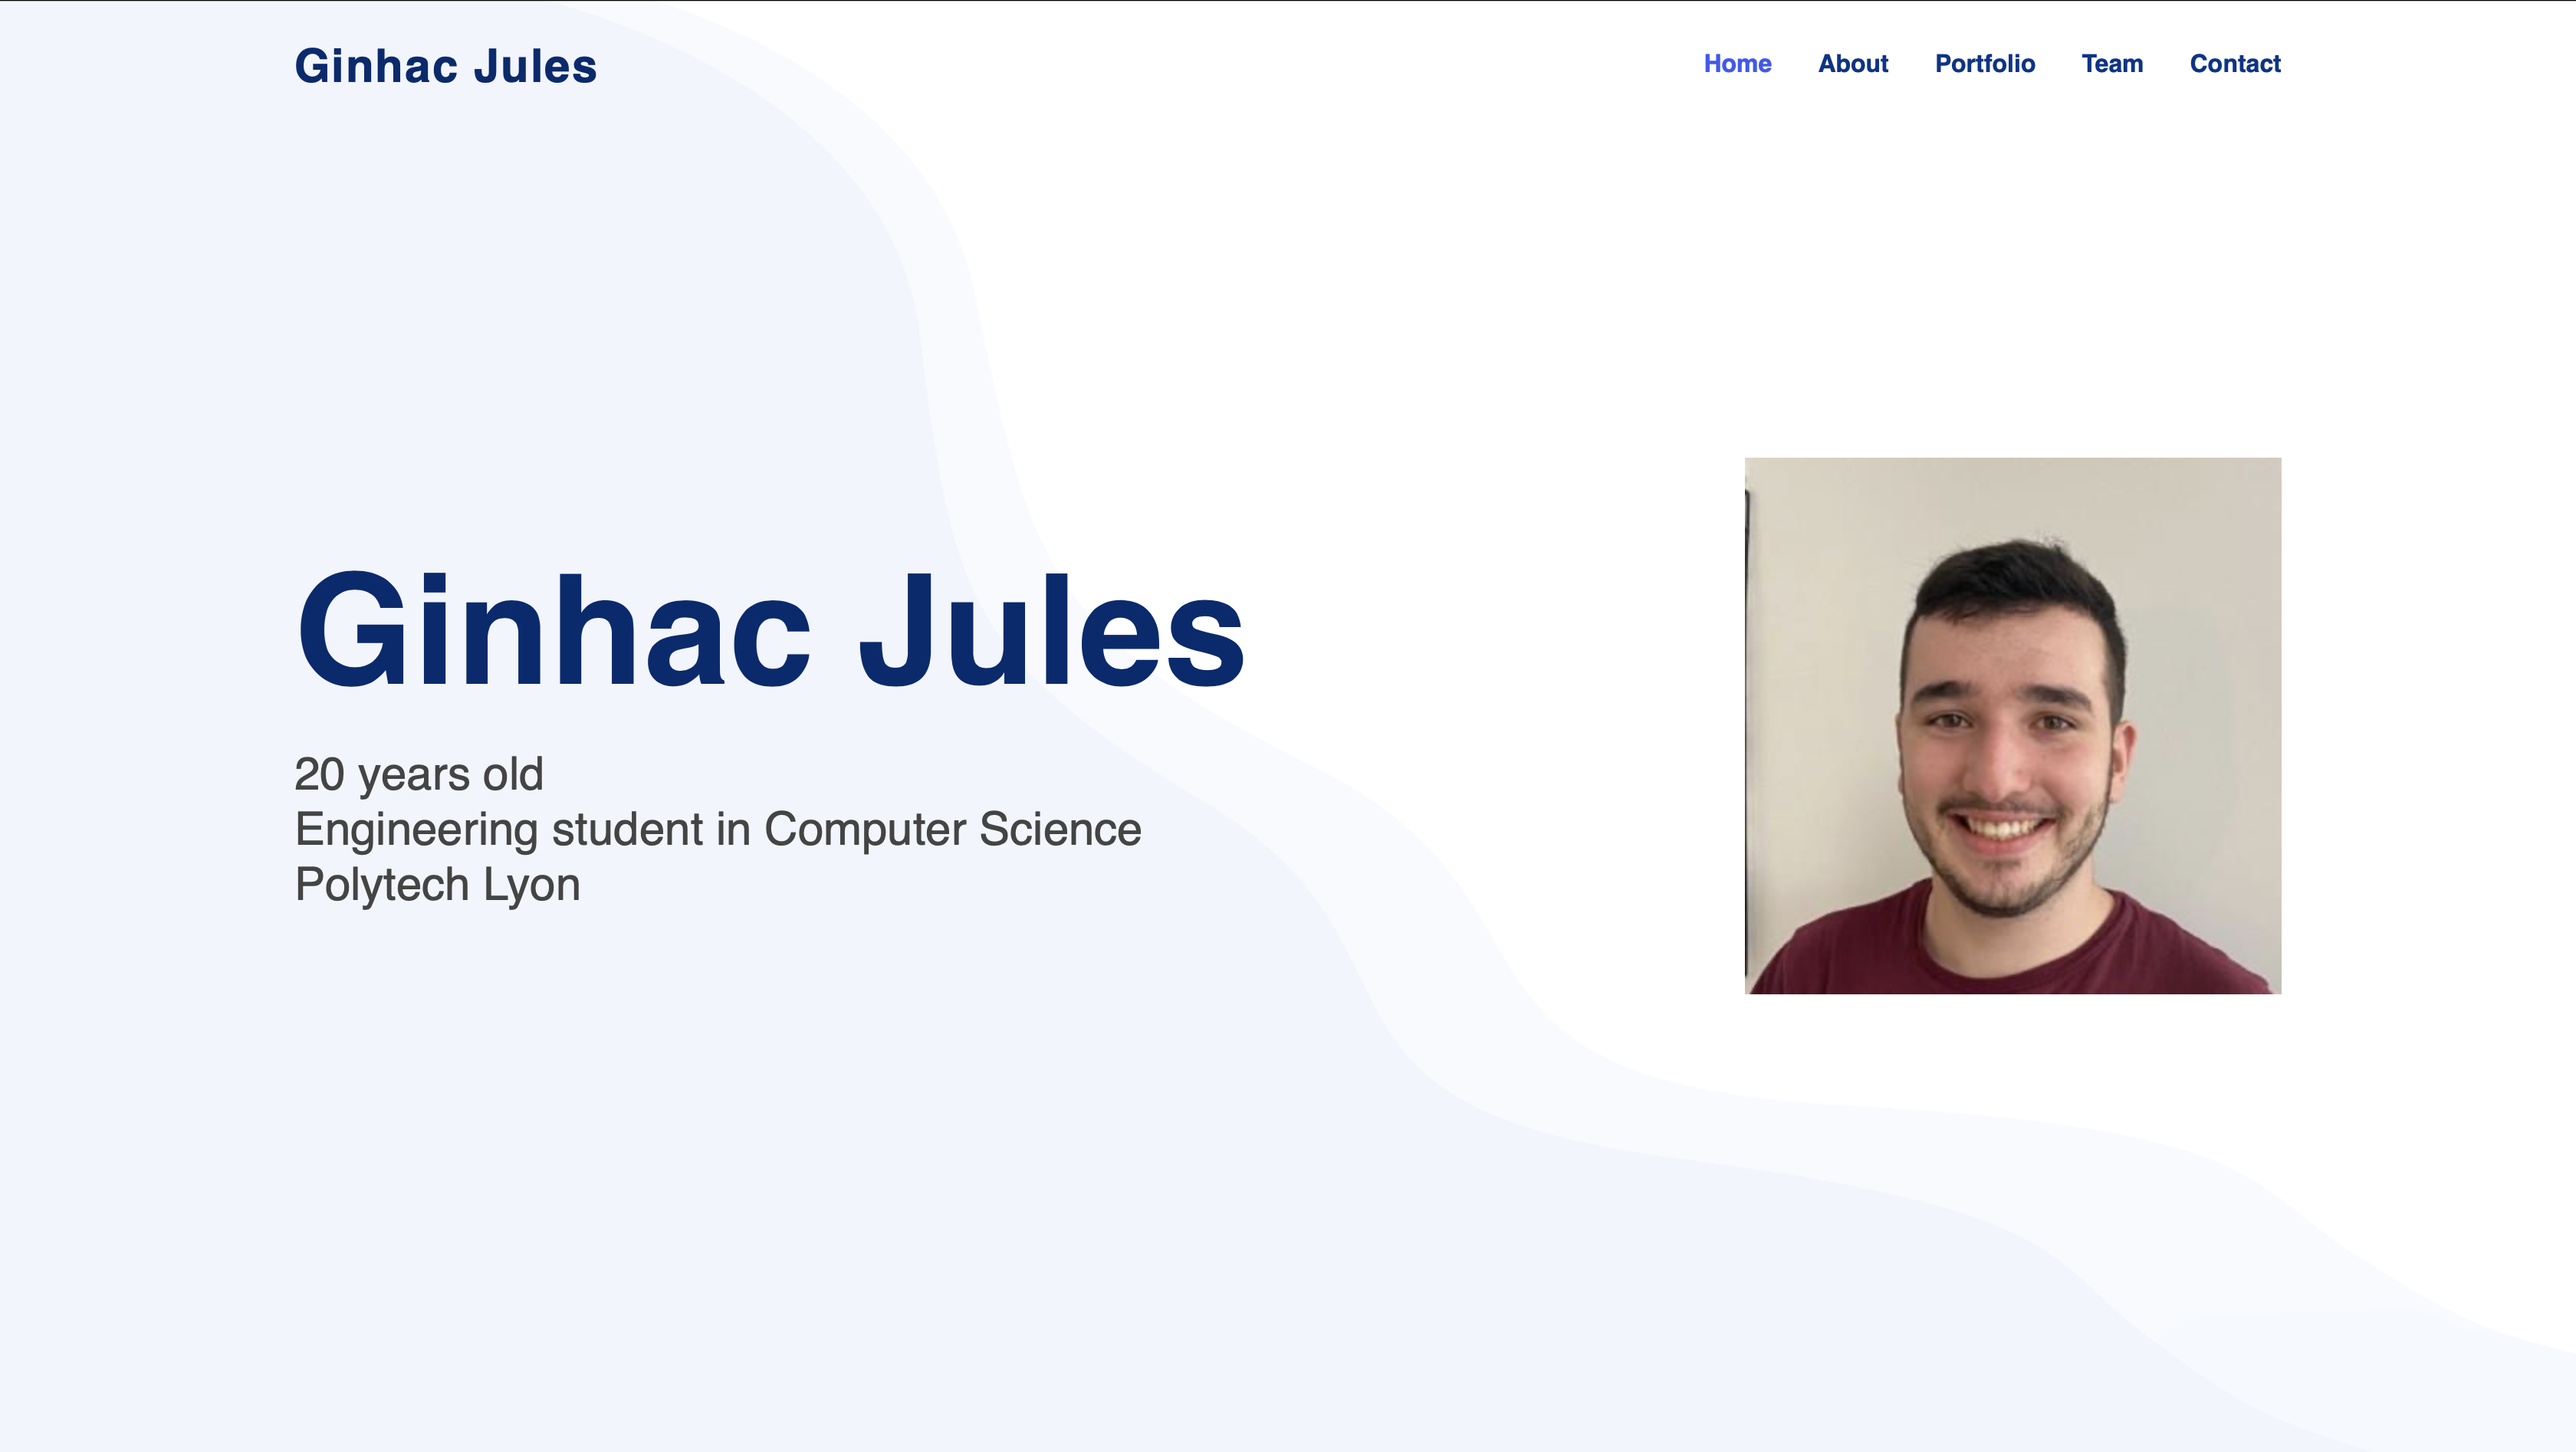
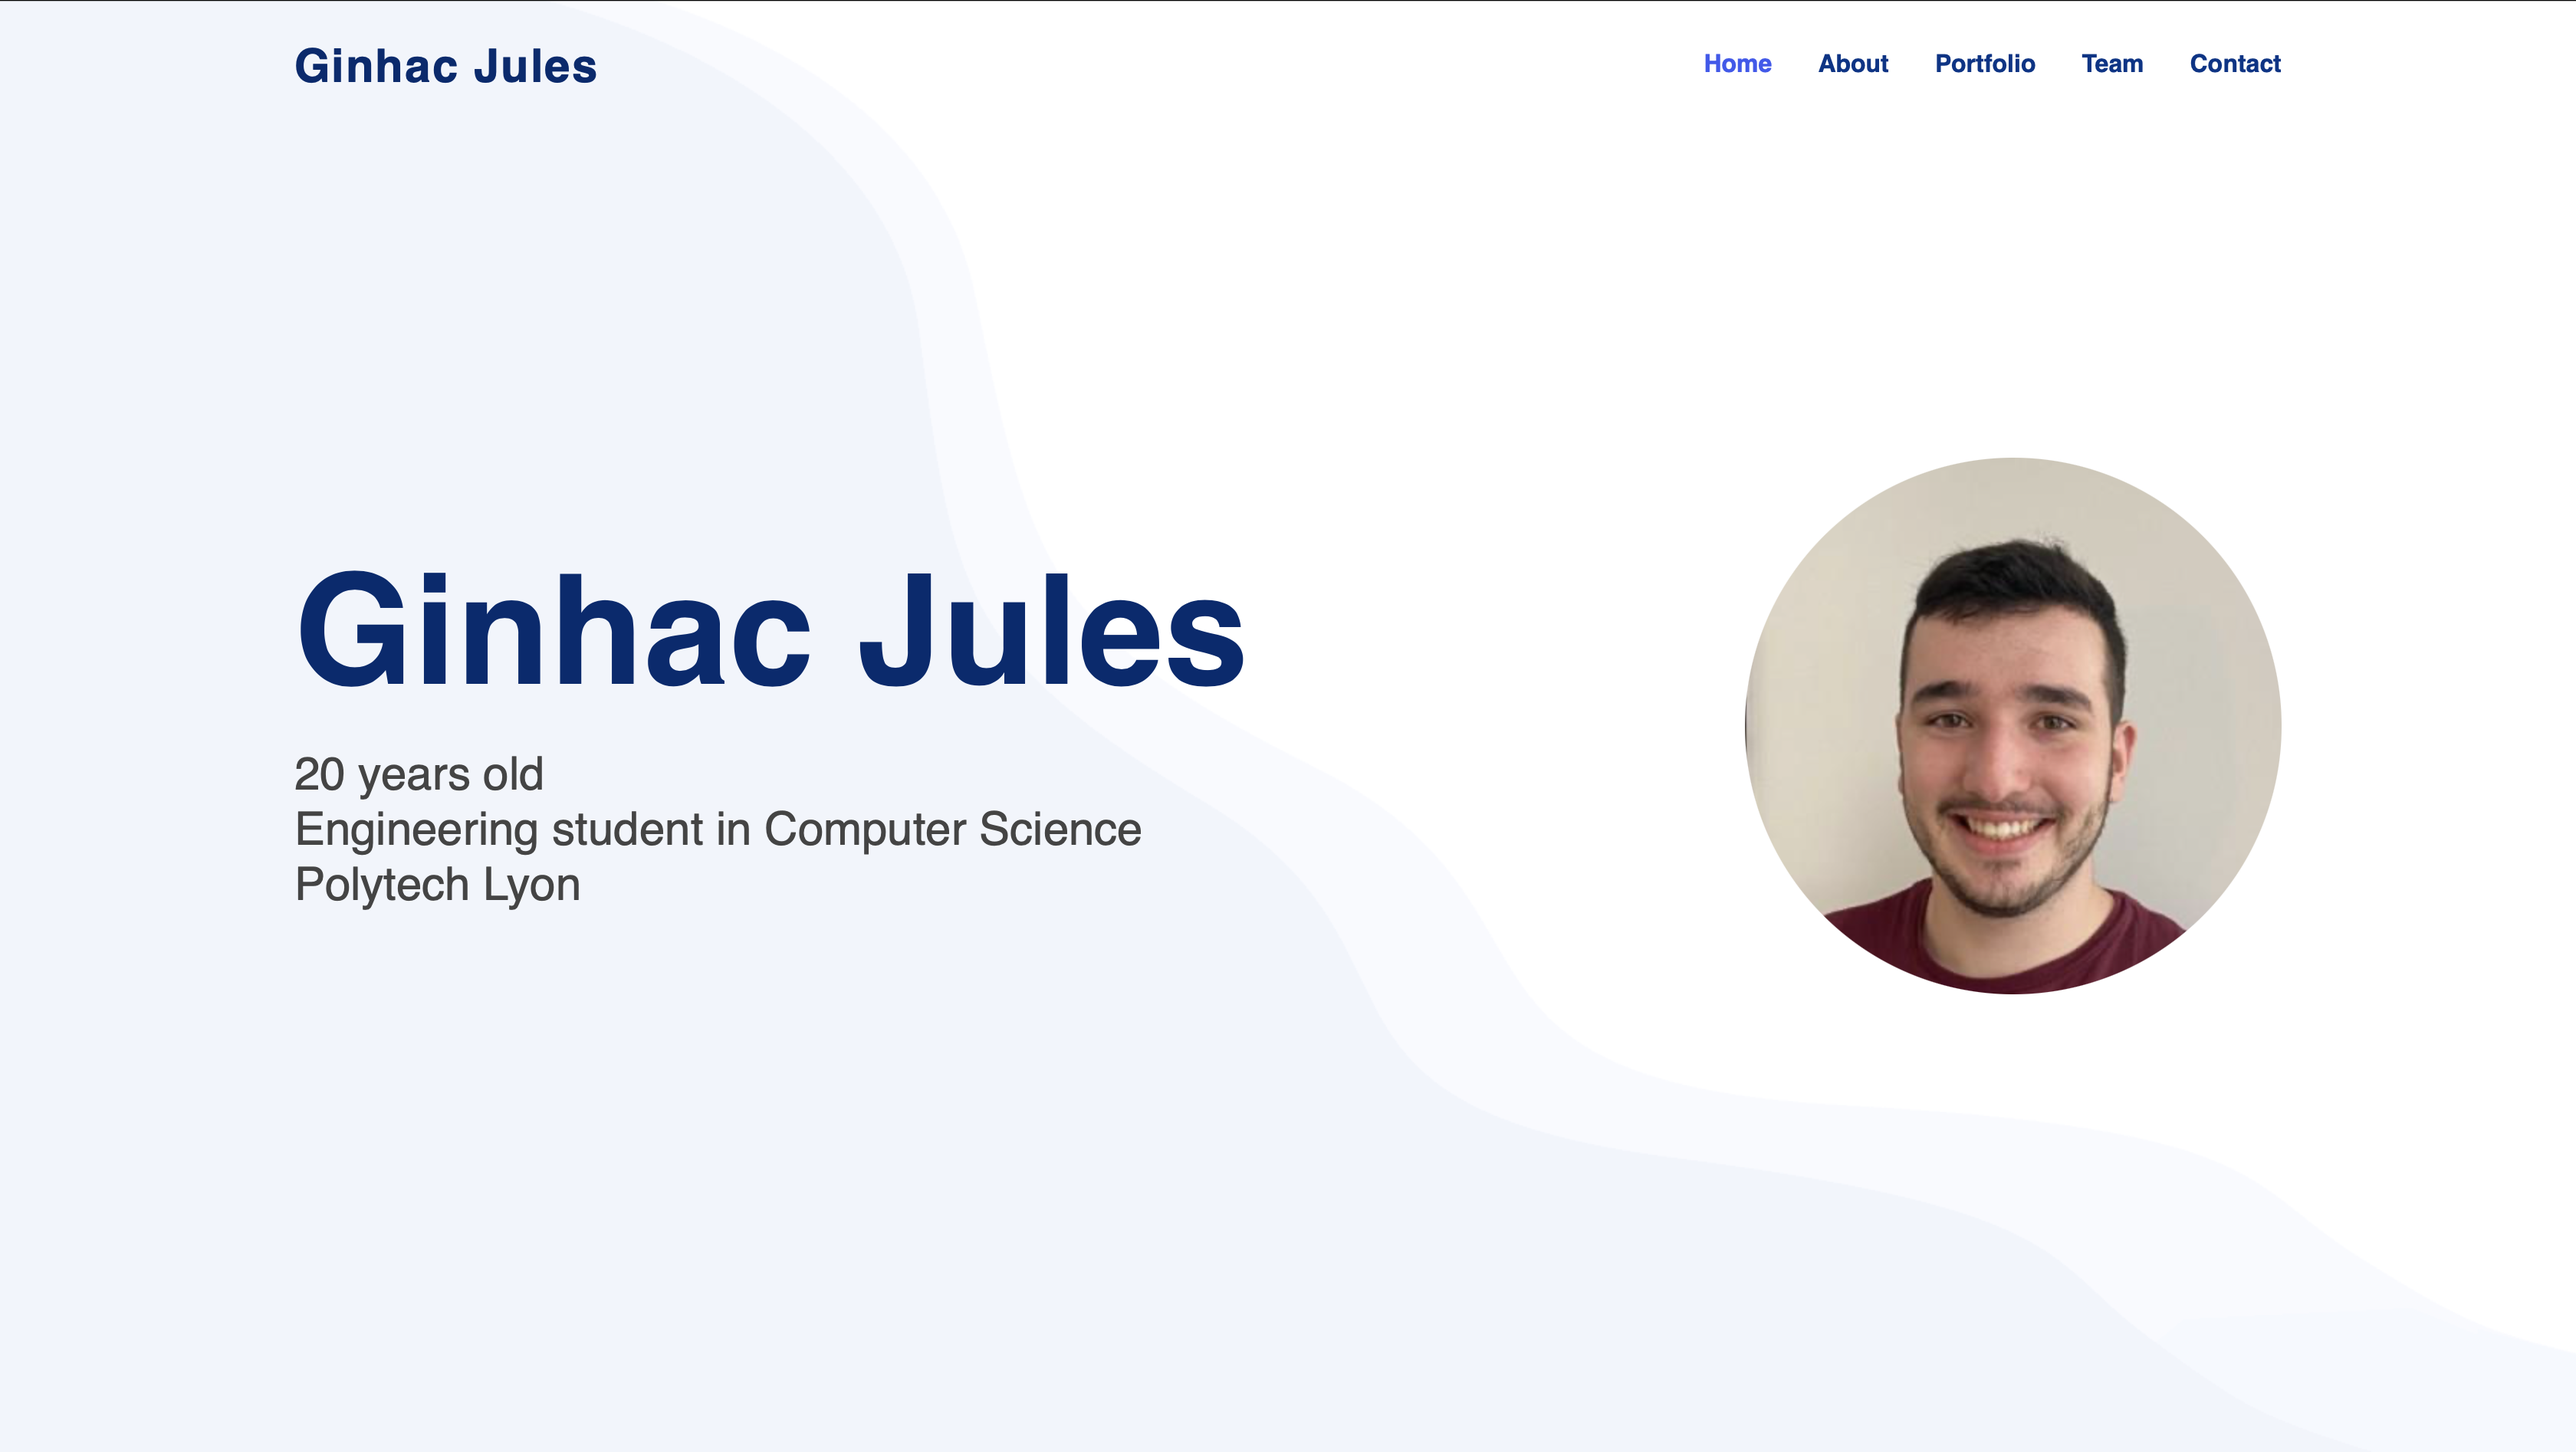
fin section hero

diff --git a/site_perso_js/assets/css/style.css b/site_perso_js/assets/css/style.css
@@ -514,6 +514,11 @@ section {
   text-align: right;
 }
 
+.hero .hero-img img {
+  border-radius: 50%; /* add this line to make the image round */
+  text-align: right;
+}
+
 @media (min-width: 1024px) {
   .hero {
     background-attachment: fixed;
